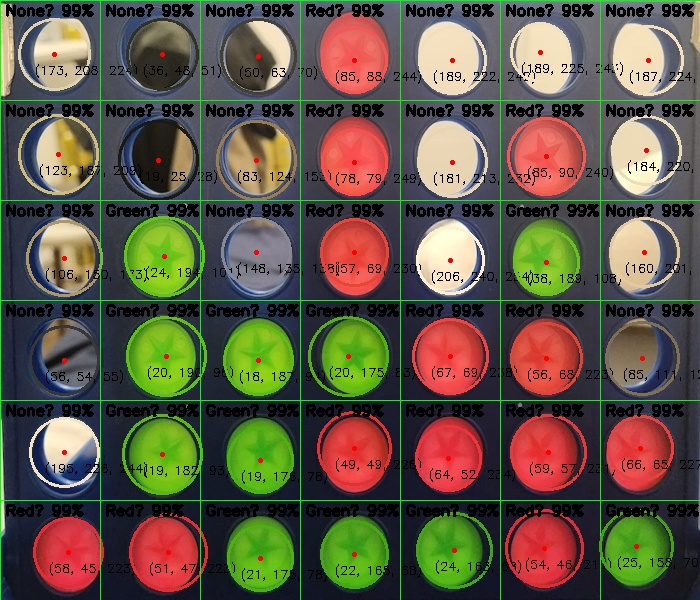
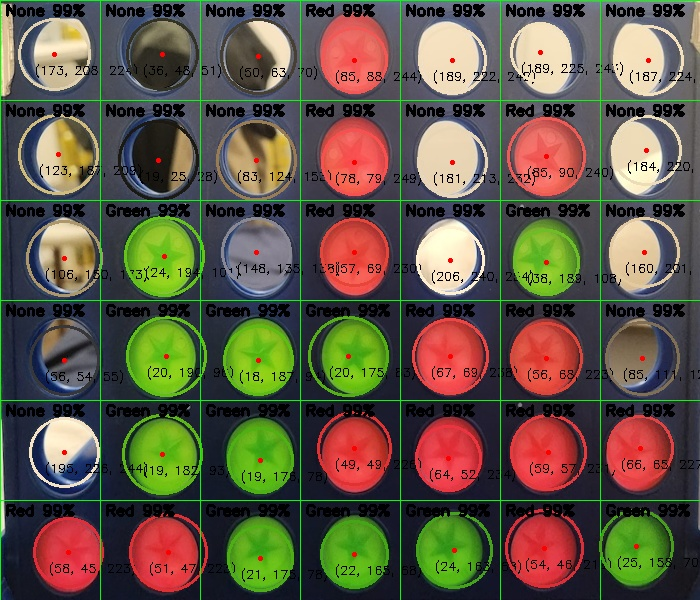
First

diff --git a/utils/circle_detection_utils.py b/utils/circle_detection_utils.py
@@ -1,8 +1,8 @@
 import time
 import cv2
 import numpy as np
-from utils.useTeachableMachine import CircleRecognition
 
+from utils.useTeachableMachine import CircleRecognition
 
 
 def detect_circles_simple(img):
@@ -67,8 +67,10 @@ def divide_picture_into_cells(image_path=None, columns=7, rows=6):
             cell_filename = f'cells/cell_{row}_{col}.jpg'
             cv2.imwrite(cell_filename, cell)
 
-def process_each_cell(image_path=None, columns=7, rows=6, color_player1=(88, 168, 55), color_player2=(213, 84, 89)):
-    if image_path is None:
+def process_each_cell(image_path=None, columns=7, rows=6, force_image=None, color_player1=(88, 168, 55), color_player2=(213, 84, 89)):
+    if force_image is not None:
+        image = force_image
+    elif image_path is None:
         cap = cv2.VideoCapture(0)
         ret, frame = cap.read()
         image = frame
@@ -77,6 +79,8 @@ def process_each_cell(image_path=None, columns=7, rows=6, color_player1=(88, 168
         image = cv2.imread(image_path)
         if image is None:
             raise ValueError("Image not found or invalid path.")
+
+    matrix_board = []
 
     image_w_overlay = image.copy()
 
@@ -87,6 +91,7 @@ def process_each_cell(image_path=None, columns=7, rows=6, color_player1=(88, 168
     cell_height = height // rows
 
     for row in range(rows):
+        matrix_board_row = []
         for col in range(columns):
             x_start = col * cell_width
             x_end = (col + 1) * cell_width
@@ -115,11 +120,24 @@ def process_each_cell(image_path=None, columns=7, rows=6, color_player1=(88, 168
                             cv2.FONT_HERSHEY_SIMPLEX, 0.4, (0, 0, 0), 1)
 
             class_name, confidence_score = cd.predict(cell)
-            cv2.putText(image_w_overlay, f"{class_name[2:]} {int(confidence_score * 100)}%",
+            class_name = class_name[1:].strip()
+            if class_name == "None":
+                matrix_board_row.append(0)
+            elif class_name == "Red":
+                matrix_board_row.append(1)
+            elif class_name == "Green":
+                matrix_board_row.append(2)
+            else:
+                print("Error in class name", class_name)
+
+            cv2.putText(image_w_overlay, f"{class_name} {int(confidence_score * 100)}%",
                         (x_start + 5, y_start + 15),
                         cv2.FONT_HERSHEY_SIMPLEX, 0.5, (0, 0, 0), 2)
+
+        matrix_board.append(matrix_board_row)
 
 
     pic_name = f'Processed_Cells/processed_block.jpg'
     cv2.imwrite(pic_name, image_w_overlay)
     print(f"Finished processing all cells. Saved to {pic_name}.")
+    return matrix_board, image_w_overlay

diff --git a/utils/border_detection.py b/utils/border_detection.py
@@ -38,11 +38,11 @@ class BorderDetector:
         x = np.array(list(leftmost_points.values()))
 
         # Calculate the 30% trimmed mean
-        trimmed_mean_x = trim_mean(x, proportiontocut=0.4)
+        trimmed_mean_x = trim_mean(x, proportiontocut=0.35)
 
         # Calculate the thresholds for trimming
-        lower_bound = np.percentile(x, 40)  # 30% trimmed: 15% from each side
-        upper_bound = np.percentile(x, 60)
+        lower_bound = np.percentile(x, 35)  # 30% trimmed: 15% from each side
+        upper_bound = np.percentile(x, 65)
 
         # Identify points within and outside the trimmed range
         trimmed_indices = (x >= lower_bound) & (x <= upper_bound)
@@ -87,11 +87,11 @@ class BorderDetector:
         y = np.array(list(lowest_points.values()))
 
         # Calculate the 30% trimmed mean
-        trimmed_mean_y = trim_mean(y, proportiontocut=0.4)
+        trimmed_mean_y = trim_mean(y, proportiontocut=0.35)
 
         # Calculate the thresholds for trimming
-        lower_bound = np.percentile(y, 40)  # 30% trimmed: 15% from each side
-        upper_bound = np.percentile(y, 60)
+        lower_bound = np.percentile(y, 35)  # 30% trimmed: 15% from each side
+        upper_bound = np.percentile(y, 65)
 
         # Identify points within and outside the trimmed range
         trimmed_indices = (y >= lower_bound) & (y <= upper_bound)
@@ -140,11 +140,11 @@ class BorderDetector:
         y = np.array(list(highest_points.values()))
 
         # Calculate the 30% trimmed mean
-        trimmed_mean_y = trim_mean(y, proportiontocut=0.4)  # 0.3
+        trimmed_mean_y = trim_mean(y, proportiontocut=0.35)  # 0.3
 
         # Calculate the thresholds for trimming
-        lower_bound = np.percentile(y, 40)
-        upper_bound = np.percentile(y, 60)
+        lower_bound = np.percentile(y, 35)
+        upper_bound = np.percentile(y, 65)
 
         # Identify points within and outside the trimmed range
         trimmed_indices = (y >= lower_bound) & (y <= upper_bound)
@@ -193,11 +193,11 @@ class BorderDetector:
         x = np.array(list(rightmost_points.values()))
 
         # Calculate the 30% trimmed mean
-        trimmed_mean_x = trim_mean(x, proportiontocut=0.4)
+        trimmed_mean_x = trim_mean(x, proportiontocut=0.35)
 
         # Calculate the thresholds for trimming
-        lower_bound = np.percentile(x, 40)  # 15
-        upper_bound = np.percentile(x, 60)  # 85
+        lower_bound = np.percentile(x, 35)  # 15
+        upper_bound = np.percentile(x, 65)  # 85
 
         # Identify points within and outside the trimmed range
         trimmed_indices = (x >= lower_bound) & (x <= upper_bound)

diff --git a/utils/useTeachableMachine.py b/utils/useTeachableMachine.py
@@ -1,17 +1,24 @@
 import os
 
-from tensorflow.keras.models import load_model
+import tensorflow
+#import tensorflow as tf
+#from tensorflow.python.keras.layers import load_model
 import cv2  # Install opencv-python
 import numpy as np
-
-
-
+#from keras.src.utils.module_utils import tensorflow
+#from tensorflow.python.keras.models import load_model
+#import tensorflow.keras
+from teachable_machine import TeachableMachine
+# remember tensorflow 2.12 needed
 
 class CircleRecognition:
     def __init__(self):
         self.camera = cv2.VideoCapture(0)
         base_path = os.path.dirname(os.path.abspath(__file__))
-        self.model = load_model(os.path.join(base_path, "../Models/teachable/keras_model.h5"), compile=False)
+        #self.model = load_model(os.path.join(base_path, "../Models/teachable/keras_model.h5"), compile=False)
+        self.model = tensorflow.keras.models.load_model(os.path.join(base_path, '../Models/teachable/keras_model.h5'))
+        #self.model = TeachableMachine(model_path=os.path.join(base_path, "../Models/teachable/keras_model.h5"),
+        #                 labels_file_path=os.path.join(base_path, '../Models/teachable/labels.txt'))
         self.class_names = open(os.path.join(base_path, "../Models/teachable/labels.txt"), "r").readlines()
 
     def predict(self, image):
@@ -27,6 +34,7 @@ class CircleRecognition:
         # Normalize the image array
         image = (image / 127.5) - 1
 
+
         # Predicts the model
         prediction = self.model.predict(image)
         index = np.argmax(prediction)
@@ -36,6 +44,20 @@ class CircleRecognition:
         # Print prediction and confidence score
         print("Class:", class_name[2:], end="")
         print("Confidence Score:", str(np.round(confidence_score * 100))[:-2], "%")
+
+        """
+        result = self.model.classify_image("rectified_image.jpg")
+
+        print("class_index", result["class_index"])
+
+        print("class_name:::", result["class_name"])
+
+        print("class_confidence:", result["class_confidence"])
+
+        print("predictions:", result["predictions"])
+
+        return result["class_name"], result["class_confidence"]
+        """
 
         return class_name, confidence_score
 

diff --git a/main.py b/main.py
@@ -11,6 +11,7 @@ from utils.calibration_utils import show_mask, show_points
 from utils.calculate_intersection import calculate_intersection
 from utils.border_detection import BorderDetector
 from utils.camera_calibration import crop_view
+from utils.circle_detection_utils import divide_picture_into_cells, process_each_cell
 
 
 def handle_points_labels(points, labels, path):
@@ -92,8 +93,10 @@ def main():
         webcam = cv2.VideoCapture(0)
         ret, frame = webcam.read()
         warped_image = crop_view(frame, top_left, top_right, bottom_right, bottom_left)
-        cv2.imwrite("rectified_image.jpg", warped_image)
-        cv2.imshow("Rectified Image", warped_image)
+        matrix, overlay = process_each_cell("Images/rectified_image.jpg", 7, 6, force_image=warped_image)
+
+        #cv2.imwrite("rectified_image.jpg", warped_image)
+        cv2.imshow("Rectified Image", overlay)
         print("Frame captured")
         # Check for the 'q' key press to exit the loop
         if cv2.waitKey(1) & 0xFF == ord('q'):

diff --git a/ImagePointSelection.py b/ImagePointSelection.py
@@ -134,8 +134,8 @@ class ImageClick:
         self.canvas.delete("all")
 
         # Figure out the maximum display size
-        max_width = self.root.winfo_screenwidth() - 100
-        max_height = self.root.winfo_screenheight() - 200
+        max_width = self.root.winfo_screenwidth() - 150
+        max_height = self.root.winfo_screenheight() - 250
 
         # Determine new size to maintain aspect ratio if needed
         aspect_ratio = self.orig_width / self.orig_height

diff --git a/TEST.py b/TEST.py
@@ -5,4 +5,6 @@ from utils.useTeachableMachine import CircleRecognition
 #divide_picture_into_cells("Images/rectified_image.jpg", 7, 6)
 
 
-matrix = process_each_cell("Images/rectified_image.jpg", 7, 6)
+matrix, image = process_each_cell("Images/rectified_image.jpg", 7, 6)
+for row in matrix:
+    print(row)
